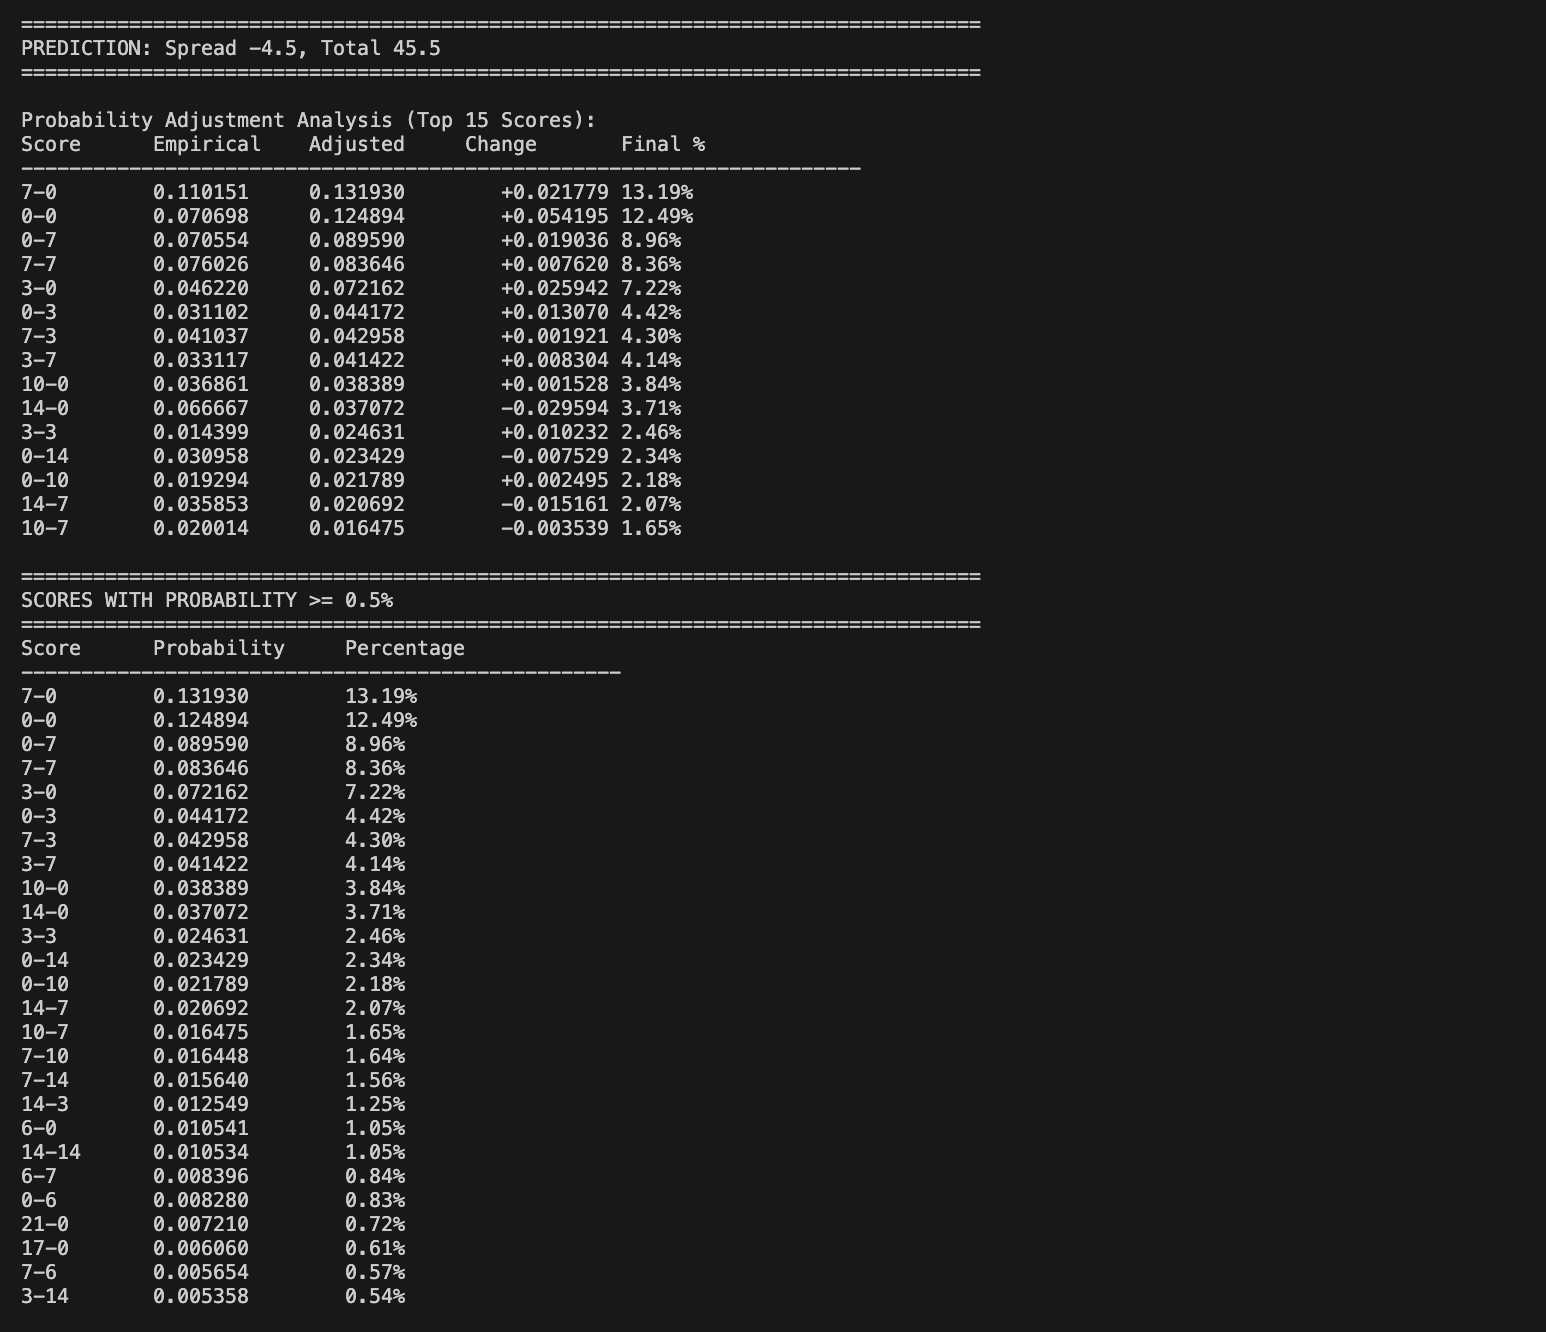
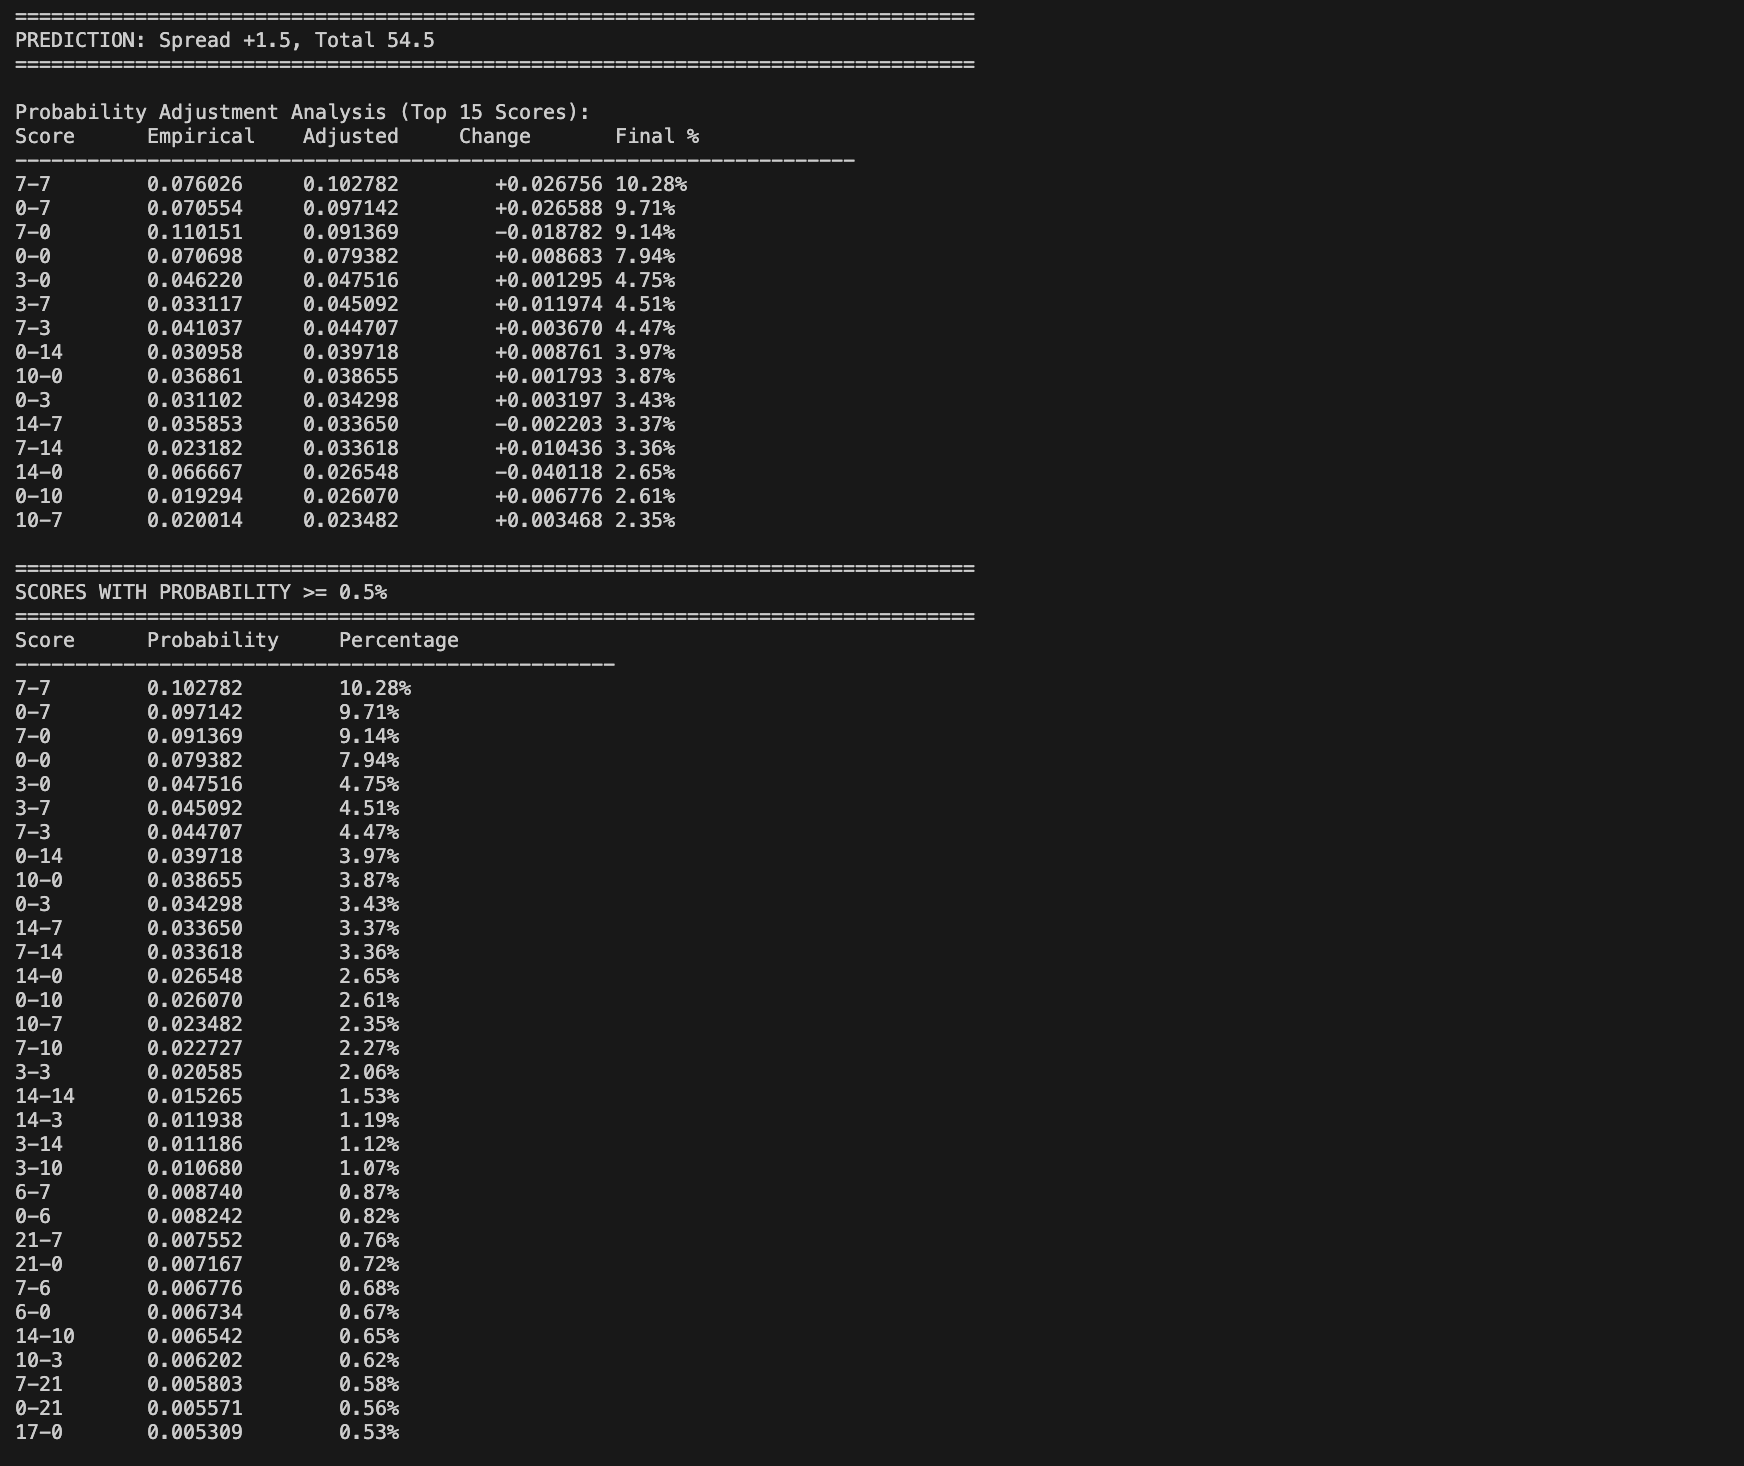
Read me changes

Changed region(s): [[0.0, 0.0, 0.621, 0.985]]

diff --git a/Ex_LandingRates_Rate.md b/Ex_LandingRates_Rate.md
@@ -5,7 +5,7 @@ Lines: Kansas St -1.5 and total 54.5
 
 Model Output
 ![alt text](image.png)
-![alt text](image-1.png)
+![alt text](image-5.png)
 
 Fanduel Output 
 <img width="1179" height="431" alt="image" src="https://github.com/user-attachments/assets/b0e46bc7-8103-42fc-abf4-bb6dc21ec24a" />
@@ -20,7 +20,7 @@ Game 2 Colorado @ Houston, Sep 12, 2025.
 Lines: Houston -4.5 and total4 45.5 
 
 Model Output 
-![alt text](image-2.png)
+![alt text](image-4.png)
 ![alt text](image-3.png)
 
 Fanduel Output
